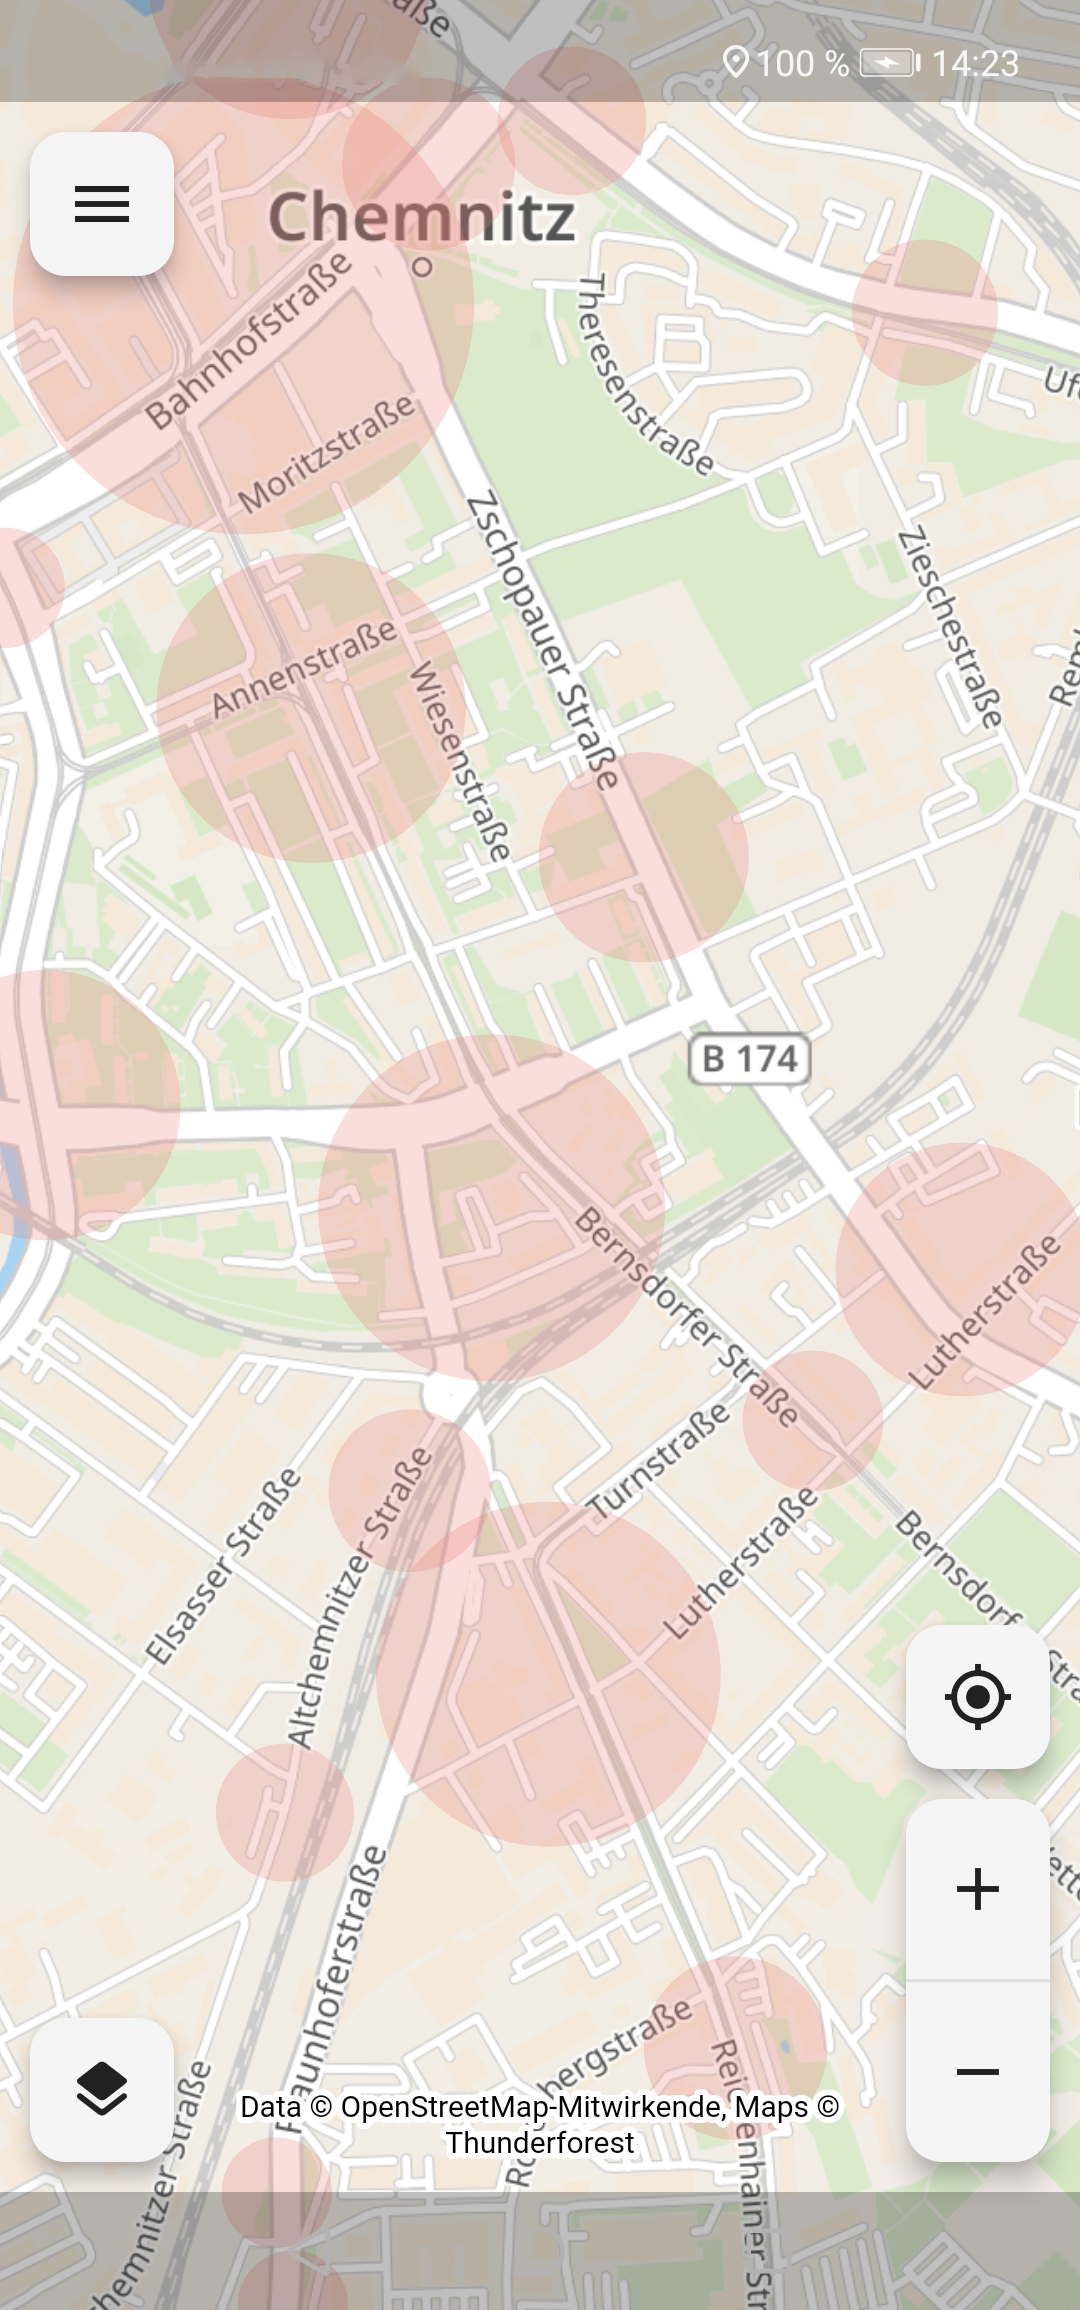
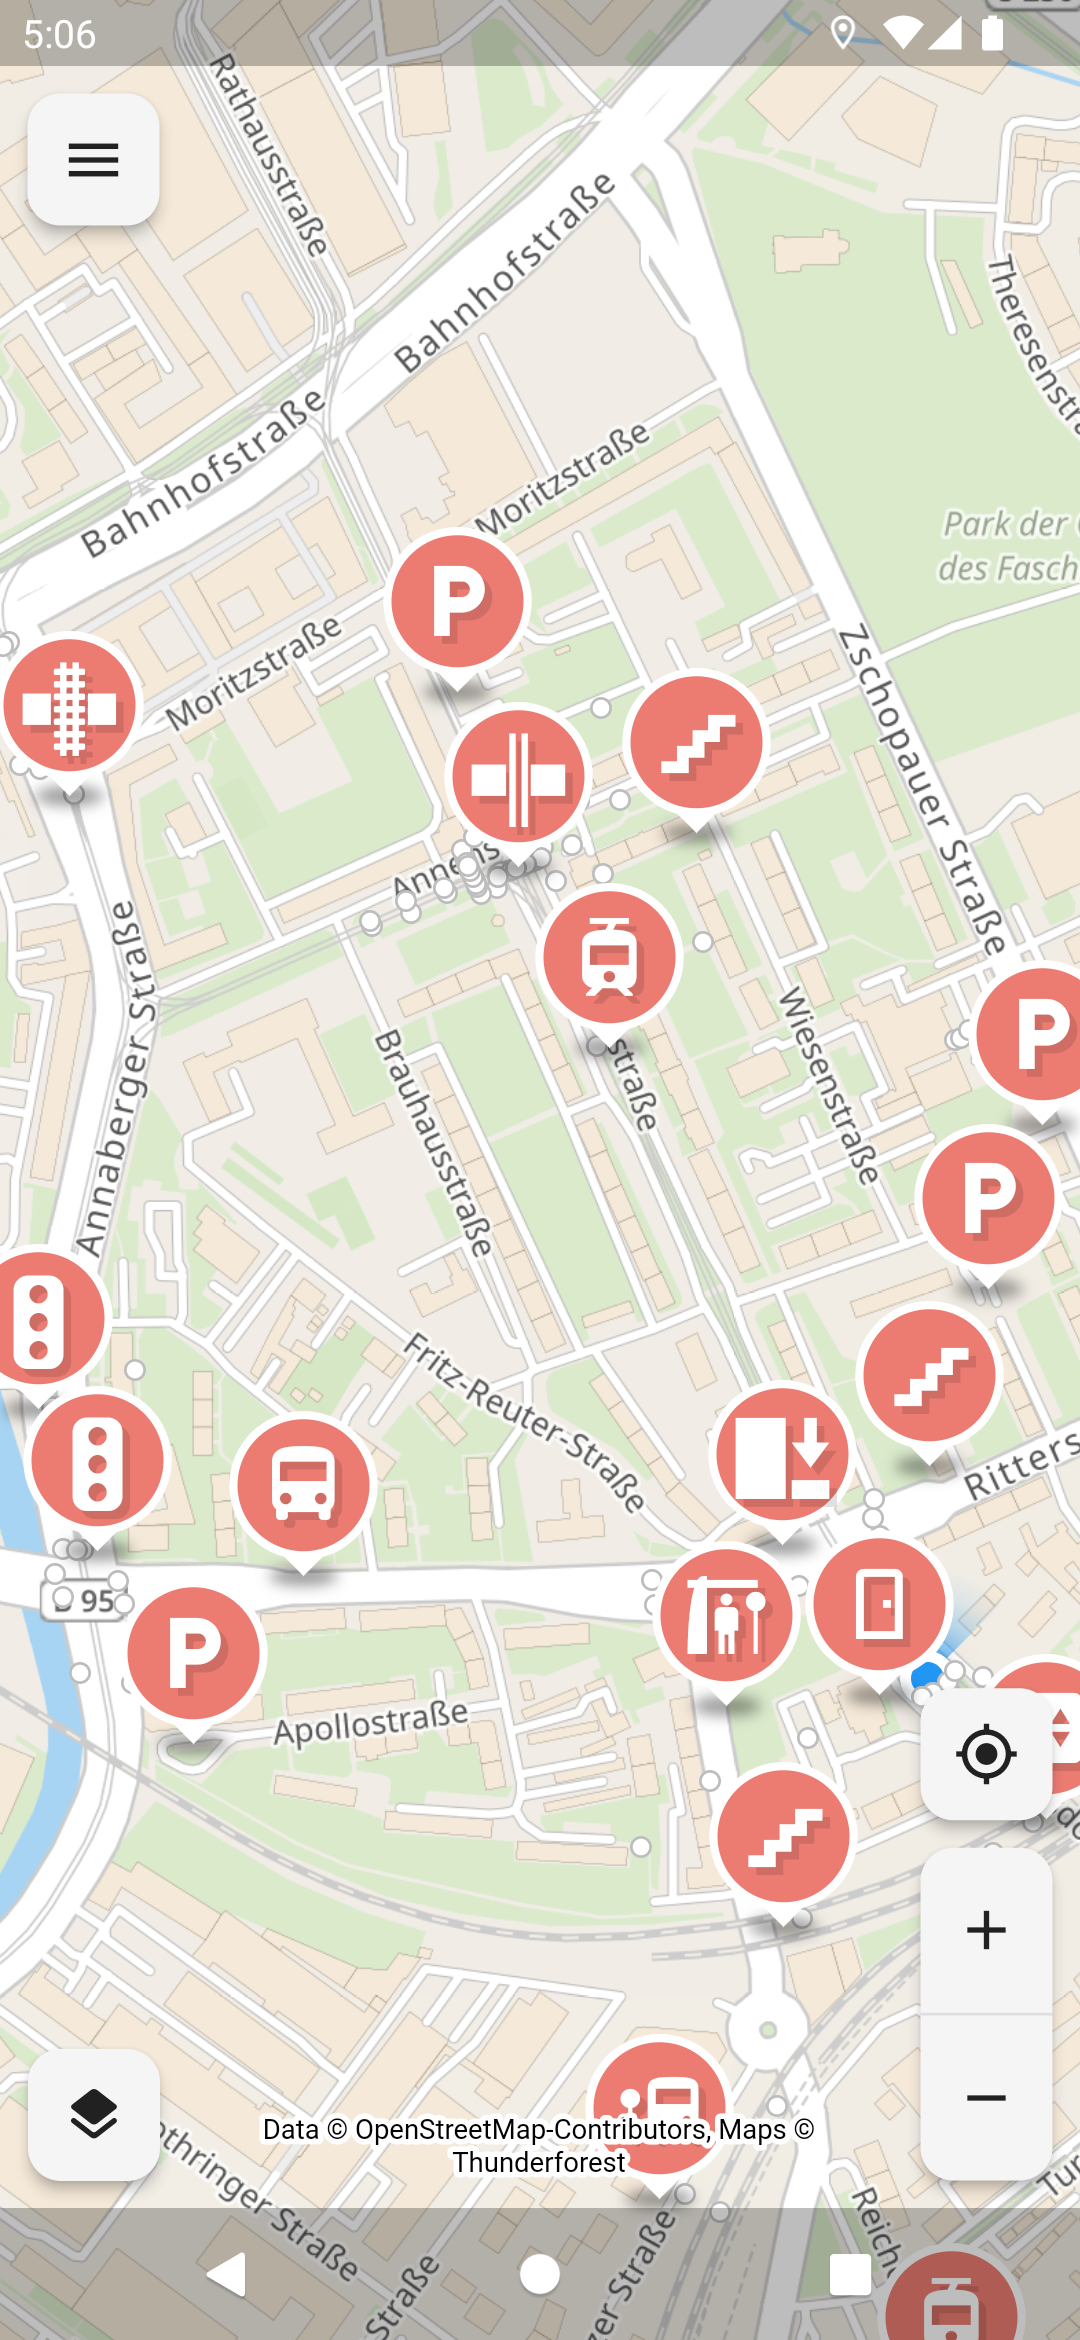
Add new screenshots for version 0.5.0 in German and English

diff --git a/README.md b/README.md
@@ -19,7 +19,7 @@ Thanks and happy mapping!
     height="50">](https://f-droid.org/packages/de.tu_chemnitz.etit.sse.openstop/)
 
 ## Screenshots
-<img src="fastlane/metadata/android/en-US/images/phoneScreenshots/screenshot01.png" alt="Screenshot with visualized stop areas" width=150> <img src="fastlane/metadata/android/en-US/images/phoneScreenshots/screenshot02.png" alt="Screenshot with bool question dialog" width=150> <img src="fastlane/metadata/android/en-US/images/phoneScreenshots/screenshot03.png" alt="Screenshot with list question dialog" width=150> <img src="fastlane/metadata/android/en-US/images/phoneScreenshots/screenshot04.png" alt="Screenshot with upload dialog" width=150>
+<img src="fastlane/metadata/android/en-US/images/phoneScreenshots/screenshot00.png" alt="Screenshot with onboarding screen" width=150> <img src="fastlane/metadata/android/en-US/images/phoneScreenshots/screenshot01.png" alt="Screenshot with visualized POI" width=150> <img src="fastlane/metadata/android/en-US/images/phoneScreenshots/screenshot02.png" alt="Screenshot with bool question dialog" width=150> <img src="fastlane/metadata/android/en-US/images/phoneScreenshots/screenshot03.png" alt="Screenshot with bool question dialog and extended info box" width=150> <img src="fastlane/metadata/android/en-US/images/phoneScreenshots/screenshot04.png" alt="Screenshot with summary and upload dialog" width=150>
 
 ## Contributing
 We are always happy, if you not only want to help us mapping, but also want to directly participate in the project. You can either open issues for enhancement suggestions and bug reports or help us developing the app further. A good starting point for the latter is to read the [build instructions](/docs/BUILD.md) for the app.
